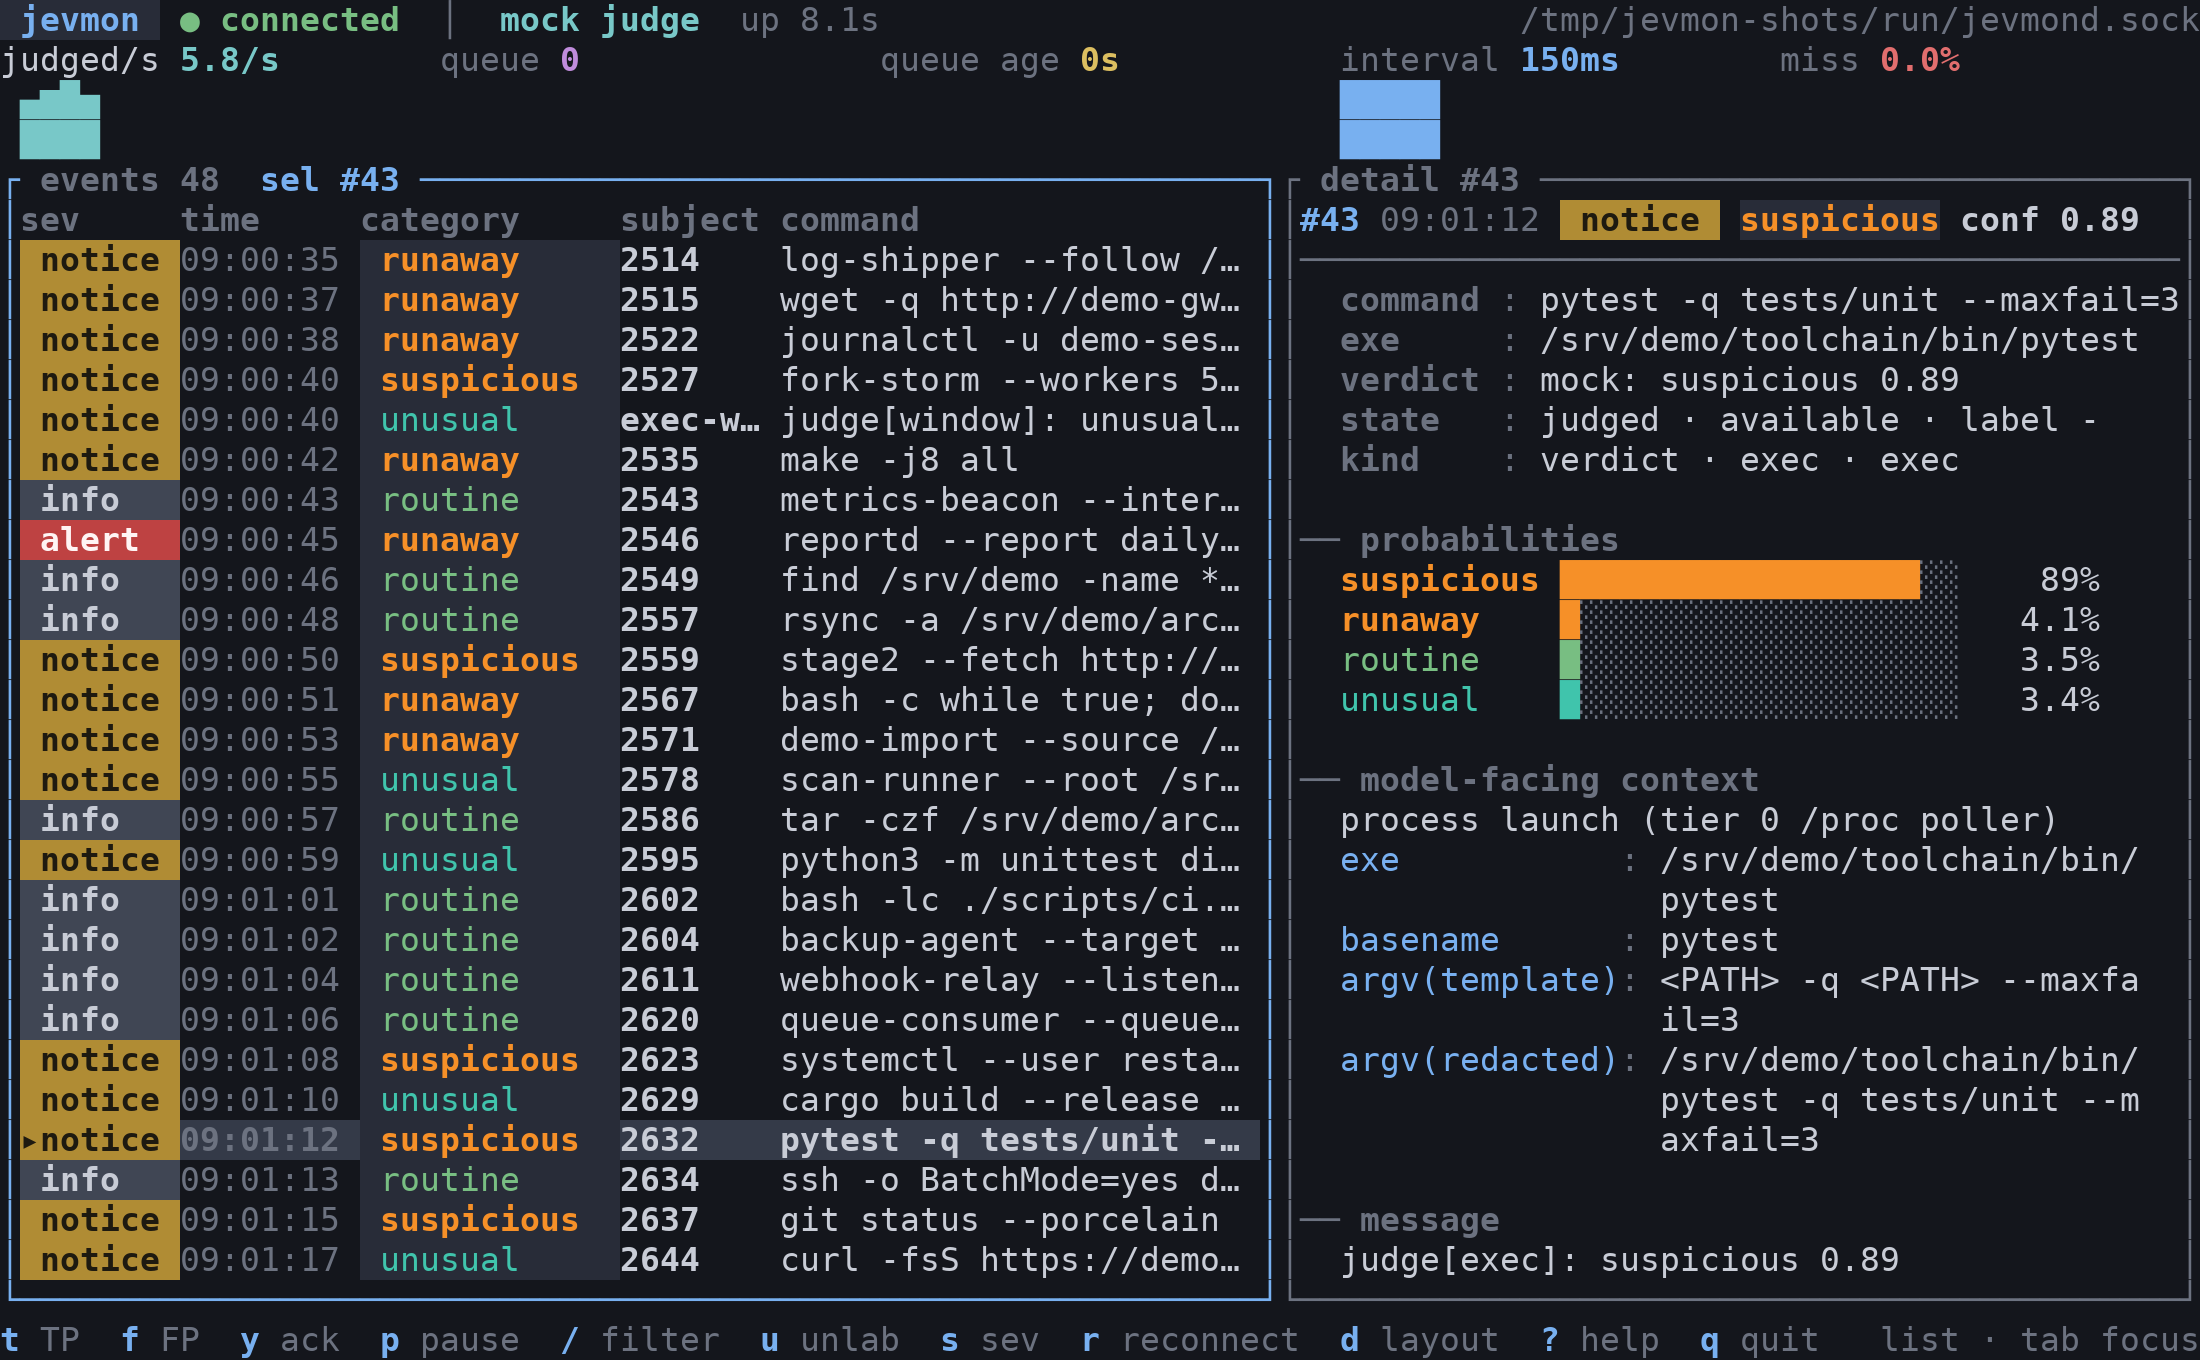
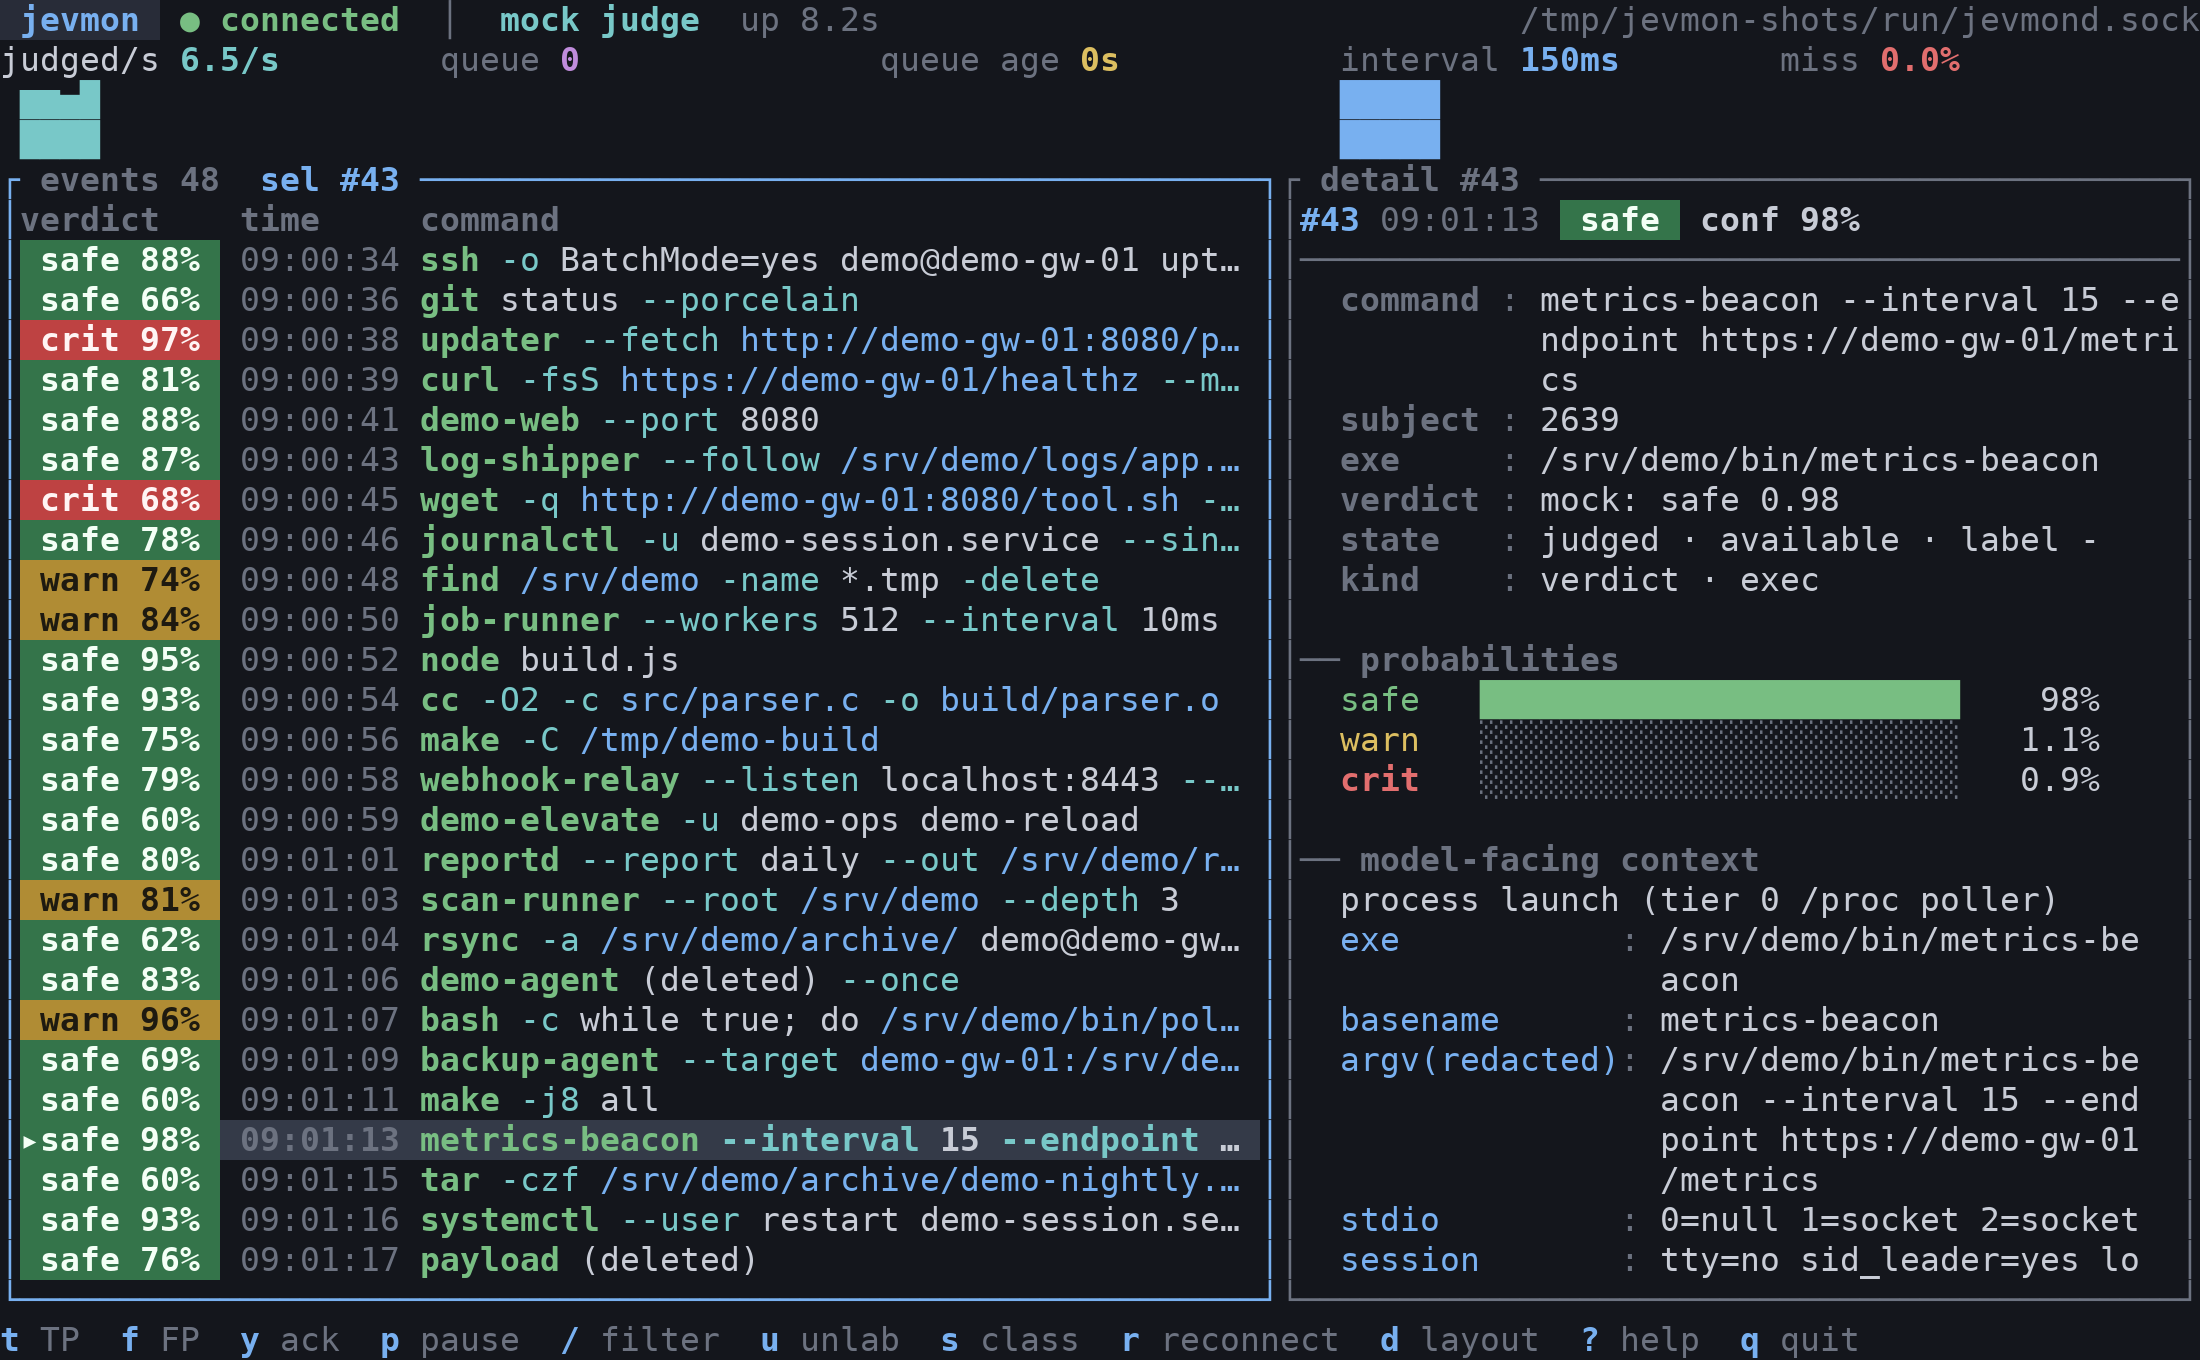
projects: combeanie demo video opens in the lightbox; jevmon gallery and text updated

diff --git a/index.html b/index.html
@@ -7,7 +7,7 @@
     <title>Matteo Bernacchia</title>
     <link rel="icon" href="/favicon.svg" type="image/svg+xml">
     <link rel="preload" href="/assets/fonts/dejavu-sans-mono-icons.woff" as="font" type="font/woff" crossorigin>
-    <link rel="stylesheet" href="/styles.css?v=25">
+    <link rel="stylesheet" href="/styles.css?v=26">
   </head>
   <body>
     <header>
@@ -164,29 +164,24 @@
 └─────┘</pre>
                 <div class="project-summary">
                   <h3>jevmon <span class="project-links"><a href="https://github.com/kikijiki/jevmon" target="_blank" rel="noopener">repo</a></span></h3>
-                  <p>A process monitor for Linux workstations that run agent swarms. A decision model judges every process launch.</p>
+                  <p>A process monitor for Linux workstations that run agent swarms. A small decision model watches what runs on the machine and rates it safe, warn or crit.</p>
                   <small>python · rust · jev · laya · decision models · fine-tuning</small>
                 </div>
               </summary>
               <div class="project-details">
                 <div class="project-gallery" id="jevmon-gallery">
-                  <label for="lb-jevmon-1"><img src="/projects/jevmon/list-tail-thumb.webp" width="582" height="360" alt="jevmon event list following the newest verdicts" loading="lazy" decoding="async"></label>
-                  <label for="lb-jevmon-2"><img src="/projects/jevmon/detail-thumb.webp" width="582" height="360" alt="jevmon pinned selection with the verdict detail and probabilities" loading="lazy" decoding="async"></label>
-                  <label for="lb-jevmon-3"><img src="/projects/jevmon/filtered-thumb.webp" width="582" height="360" alt="jevmon event list narrowed by a text filter" loading="lazy" decoding="async"></label>
-                  <label for="lb-jevmon-4"><img src="/projects/jevmon/trackio-thumb.webp" width="603" height="360" alt="Trackio dashboard with training loss and validation macro-F1 for three fine-tune configurations" loading="lazy" decoding="async"></label>
+                  <label for="lb-jevmon-1"><img src="/projects/jevmon/detail-thumb.webp" width="582" height="360" alt="jevmon terminal client: live list of judged process launches with the verdict detail, safe, warn or crit probabilities and the context the model saw" loading="lazy" decoding="async"></label>
+                  <label for="lb-jevmon-2"><img src="/projects/jevmon/trackio-learning-thumb.webp" width="537" height="360" alt="Learning curves: cross-validated macro-F1 and accuracy against the number of training families, plus per-class F1" loading="lazy" decoding="async"></label>
                 </div>
                 <ul class="project-highlights">
-                  <li>Watches process launches straight from <code>/proc</code>; the code only builds a bounded, sanitized context for each one, and a small decision model gives the verdict. No hardcoded rules, scores or name lists.</li>
-                  <li>Runs on the iGPU of a Strix Halo box: about 50 ms per context and at most two CPU cores, roughly 12 times faster than eight cores on the CPU.</li>
-                  <li>Decisions are memoised per distinct situation, with a bounded queue and batched judging, so it keeps up with a busy build box.</li>
-                  <li>A systemd user daemon with a Unix socket, and a Ratatui terminal client that follows the tail without ever moving your selection.</li>
-                  <li>Every verdict is stored with its context as training data. A rootless-container lab generates labelled scenarios, split by scenario family. On held-out families a head over the frozen encoder reaches 0.68 macro-F1 against 0.21 for always answering routine; zero-shot Laya reaches 0.31 and full fine-tuning 0.56. Runs are tracked in Trackio.</li>
+                  <li>Observes process activity from <code>/proc</code> and builds a bounded, sanitized context for a small decision model. No hardcoded rules, scores or name lists.</li>
+                  <li>Runs on the iGPU of a Strix Halo box: 44 to 65 ms per context, against about 2.5 s on two CPU threads.</li>
+                  <li>A systemd user daemon with a Ratatui terminal client.</li>
+                  <li>Verdicts are stored with their context as training data, and a rootless-container lab generates labelled scenarios to evaluate and fine-tune the model. On held-out scenario families it reaches 0.67 macro-F1; the pool is small and synthetic, so treat that as a rough guide.</li>
                 </ul>
 <form class="lightboxes">
-                <input type="radio" name="lb-jevmon" id="lb-jevmon-1" class="lb-radio" aria-label="jevmon event list following the newest verdicts"><div class="lightbox" id="lightbox-jevmon-1"><button type="reset" class="lb-close" aria-label="Close"></button><img src="/projects/jevmon/list-tail.webp" width="2200" height="1360" alt="jevmon event list following the newest verdicts" loading="lazy" decoding="async"><label class="lb-prev" for="lb-jevmon-4" aria-label="Previous image">‹</label><label class="lb-next" for="lb-jevmon-2" aria-label="Next image">›</label></div>
-                <input type="radio" name="lb-jevmon" id="lb-jevmon-2" class="lb-radio" aria-label="jevmon pinned selection with the verdict detail and probabilities"><div class="lightbox" id="lightbox-jevmon-2"><button type="reset" class="lb-close" aria-label="Close"></button><img src="/projects/jevmon/detail.webp" width="2200" height="1360" alt="jevmon pinned selection with the verdict detail and probabilities" loading="lazy" decoding="async"><label class="lb-prev" for="lb-jevmon-1" aria-label="Previous image">‹</label><label class="lb-next" for="lb-jevmon-3" aria-label="Next image">›</label></div>
-                <input type="radio" name="lb-jevmon" id="lb-jevmon-3" class="lb-radio" aria-label="jevmon event list narrowed by a text filter"><div class="lightbox" id="lightbox-jevmon-3"><button type="reset" class="lb-close" aria-label="Close"></button><img src="/projects/jevmon/filtered.webp" width="2200" height="1360" alt="jevmon event list narrowed by a text filter" loading="lazy" decoding="async"><label class="lb-prev" for="lb-jevmon-2" aria-label="Previous image">‹</label><label class="lb-next" for="lb-jevmon-4" aria-label="Next image">›</label></div>
-                <input type="radio" name="lb-jevmon" id="lb-jevmon-4" class="lb-radio" aria-label="Trackio dashboard with training loss and validation macro-F1 for three fine-tune configurations"><div class="lightbox" id="lightbox-jevmon-4"><button type="reset" class="lb-close" aria-label="Close"></button><img src="/projects/jevmon/trackio.webp" width="2550" height="1522" alt="Trackio dashboard with training loss and validation macro-F1 for three fine-tune configurations" loading="lazy" decoding="async"><label class="lb-prev" for="lb-jevmon-3" aria-label="Previous image">‹</label><label class="lb-next" for="lb-jevmon-1" aria-label="Next image">›</label></div>
+                <input type="radio" name="lb-jevmon" id="lb-jevmon-1" class="lb-radio" aria-label="jevmon terminal client: live list of judged process launches with the verdict detail, safe, warn or crit probabilities and the context the model saw"><div class="lightbox" id="lightbox-jevmon-1"><button type="reset" class="lb-close" aria-label="Close"></button><img src="/projects/jevmon/detail.webp" width="2200" height="1360" alt="jevmon terminal client: live list of judged process launches with the verdict detail, safe, warn or crit probabilities and the context the model saw" loading="lazy" decoding="async"><label class="lb-prev" for="lb-jevmon-2" aria-label="Previous image">‹</label><label class="lb-next" for="lb-jevmon-2" aria-label="Next image">›</label></div>
+                <input type="radio" name="lb-jevmon" id="lb-jevmon-2" class="lb-radio" aria-label="Learning curves: cross-validated macro-F1 and accuracy against the number of training families, plus per-class F1"><div class="lightbox" id="lightbox-jevmon-2"><button type="reset" class="lb-close" aria-label="Close"></button><img src="/projects/jevmon/trackio-learning.webp" width="2091" height="1403" alt="Learning curves: cross-validated macro-F1 and accuracy against the number of training families, plus per-class F1" loading="lazy" decoding="async"><label class="lb-prev" for="lb-jevmon-1" aria-label="Previous image">‹</label><label class="lb-next" for="lb-jevmon-1" aria-label="Next image">›</label></div>
 </form>
               </div>
             </details>
@@ -243,9 +238,7 @@
               </summary>
               <div class="project-details">
                 <div class="project-gallery" id="combeanie-gallery">
-                  <video controls playsinline preload="none" poster="/projects/combeanie/media/restocking-demo-poster.webp">
-                    <source src="/projects/combeanie/media/restocking-demo.mp4" type="video/mp4">
-                  </video>
+                  <label for="lb-combeanie-0" class="video-thumb"><img src="/projects/combeanie/media/restocking-demo-poster-thumb.webp" width="640" height="360" alt="Combeanie restocking demo video" loading="lazy" decoding="async"></label>
                   <label for="lb-combeanie-1"><img src="/projects/combeanie/img/schematics/layout-plan.svg" width="980" height="620" alt="Combined workcell and robot plan" loading="lazy" decoding="async"></label>
                   <label for="lb-combeanie-2"><img src="/projects/combeanie/img/schematics/robot-orthographic.svg" width="980" height="560" alt="Robot side and front orthographic views" loading="lazy" decoding="async"></label>
                   <label for="lb-combeanie-3"><img src="/projects/combeanie/img/schematics/workcell-top-side.svg" width="1000" height="780" alt="Workcell top and side views" loading="lazy" decoding="async"></label>
@@ -261,10 +254,11 @@
                   <li>Seeded, byte-deterministic scenario replay for reproducing a specific failure exactly.</li>
                 </ul>
 <form class="lightboxes">
-                <input type="radio" name="lb-combeanie" id="lb-combeanie-1" class="lb-radio" aria-label="Combined workcell and robot plan"><div class="lightbox" id="lightbox-combeanie-1"><button type="reset" class="lb-close" aria-label="Close"></button><img src="/projects/combeanie/img/schematics/layout-plan.svg" width="980" height="620" alt="Combined workcell and robot plan" loading="lazy" decoding="async"><label class="lb-prev" for="lb-combeanie-4" aria-label="Previous image">‹</label><label class="lb-next" for="lb-combeanie-2" aria-label="Next image">›</label></div>
+                                <input type="radio" name="lb-combeanie" id="lb-combeanie-0" class="lb-radio" aria-label="Combeanie restocking demo video"><div class="lightbox" id="lightbox-combeanie-0"><button type="reset" class="lb-close" aria-label="Close"></button><video controls playsinline preload="none" poster="/projects/combeanie/media/restocking-demo-poster.webp" width="960" height="540"><source src="/projects/combeanie/media/restocking-demo.mp4" type="video/mp4"></video><label class="lb-prev" for="lb-combeanie-4" aria-label="Previous image">‹</label><label class="lb-next" for="lb-combeanie-1" aria-label="Next image">›</label></div>
+                <input type="radio" name="lb-combeanie" id="lb-combeanie-1" class="lb-radio" aria-label="Combined workcell and robot plan"><div class="lightbox" id="lightbox-combeanie-1"><button type="reset" class="lb-close" aria-label="Close"></button><img src="/projects/combeanie/img/schematics/layout-plan.svg" width="980" height="620" alt="Combined workcell and robot plan" loading="lazy" decoding="async"><label class="lb-prev" for="lb-combeanie-0" aria-label="Previous image">‹</label><label class="lb-next" for="lb-combeanie-2" aria-label="Next image">›</label></div>
                 <input type="radio" name="lb-combeanie" id="lb-combeanie-2" class="lb-radio" aria-label="Robot side and front orthographic views"><div class="lightbox" id="lightbox-combeanie-2"><button type="reset" class="lb-close" aria-label="Close"></button><img src="/projects/combeanie/img/schematics/robot-orthographic.svg" width="980" height="560" alt="Robot side and front orthographic views" loading="lazy" decoding="async"><label class="lb-prev" for="lb-combeanie-1" aria-label="Previous image">‹</label><label class="lb-next" for="lb-combeanie-3" aria-label="Next image">›</label></div>
                 <input type="radio" name="lb-combeanie" id="lb-combeanie-3" class="lb-radio" aria-label="Workcell top and side views"><div class="lightbox" id="lightbox-combeanie-3"><button type="reset" class="lb-close" aria-label="Close"></button><img src="/projects/combeanie/img/schematics/workcell-top-side.svg" width="1000" height="780" alt="Workcell top and side views" loading="lazy" decoding="async"><label class="lb-prev" for="lb-combeanie-2" aria-label="Previous image">‹</label><label class="lb-next" for="lb-combeanie-4" aria-label="Next image">›</label></div>
-                <input type="radio" name="lb-combeanie" id="lb-combeanie-4" class="lb-radio" aria-label="Gravity-fed lane cross-section"><div class="lightbox" id="lightbox-combeanie-4"><button type="reset" class="lb-close" aria-label="Close"></button><img src="/projects/combeanie/img/schematics/lane-cross-section.svg" width="900" height="420" alt="Gravity-fed lane cross-section" loading="lazy" decoding="async"><label class="lb-prev" for="lb-combeanie-3" aria-label="Previous image">‹</label><label class="lb-next" for="lb-combeanie-1" aria-label="Next image">›</label></div>
+                <input type="radio" name="lb-combeanie" id="lb-combeanie-4" class="lb-radio" aria-label="Gravity-fed lane cross-section"><div class="lightbox" id="lightbox-combeanie-4"><button type="reset" class="lb-close" aria-label="Close"></button><img src="/projects/combeanie/img/schematics/lane-cross-section.svg" width="900" height="420" alt="Gravity-fed lane cross-section" loading="lazy" decoding="async"><label class="lb-prev" for="lb-combeanie-3" aria-label="Previous image">‹</label><label class="lb-next" for="lb-combeanie-0" aria-label="Next image">›</label></div>
 </form>
               </div>
             </details>

diff --git a/styles.css b/styles.css
@@ -175,14 +175,12 @@ a:hover {
   overflow-x: auto;
 }
 
-.project-gallery label,
-.project-gallery > video {
+.project-gallery label {
   display: block;
   flex: none;
 }
 
-.project-gallery img,
-.project-gallery > video {
+.project-gallery img {
   display: block;
   width: auto;
   height: 8rem;
@@ -206,6 +204,39 @@ a:hover {
   background: rgba(0, 0, 0, 0.85);
   cursor: zoom-out;
   z-index: 100;
+}
+
+.lightbox video {
+  position: relative;
+  width: auto;
+  height: auto;
+  max-width: 100%;
+  max-height: 100%;
+  border-radius: 0.75rem;
+  background: #000;
+}
+
+.video-thumb {
+  position: relative;
+}
+
+.video-thumb::after {
+  content: "\25B6";
+  position: absolute;
+  top: 50%;
+  left: 50%;
+  display: flex;
+  align-items: center;
+  justify-content: center;
+  width: 2.5rem;
+  height: 2.5rem;
+  padding-left: 0.15rem;
+  transform: translate(-50%, -50%);
+  border-radius: 50%;
+  background: rgba(0, 0, 0, 0.65);
+  color: #fff;
+  font-size: 1rem;
+  pointer-events: none;
 }
 
 .lightbox img {
